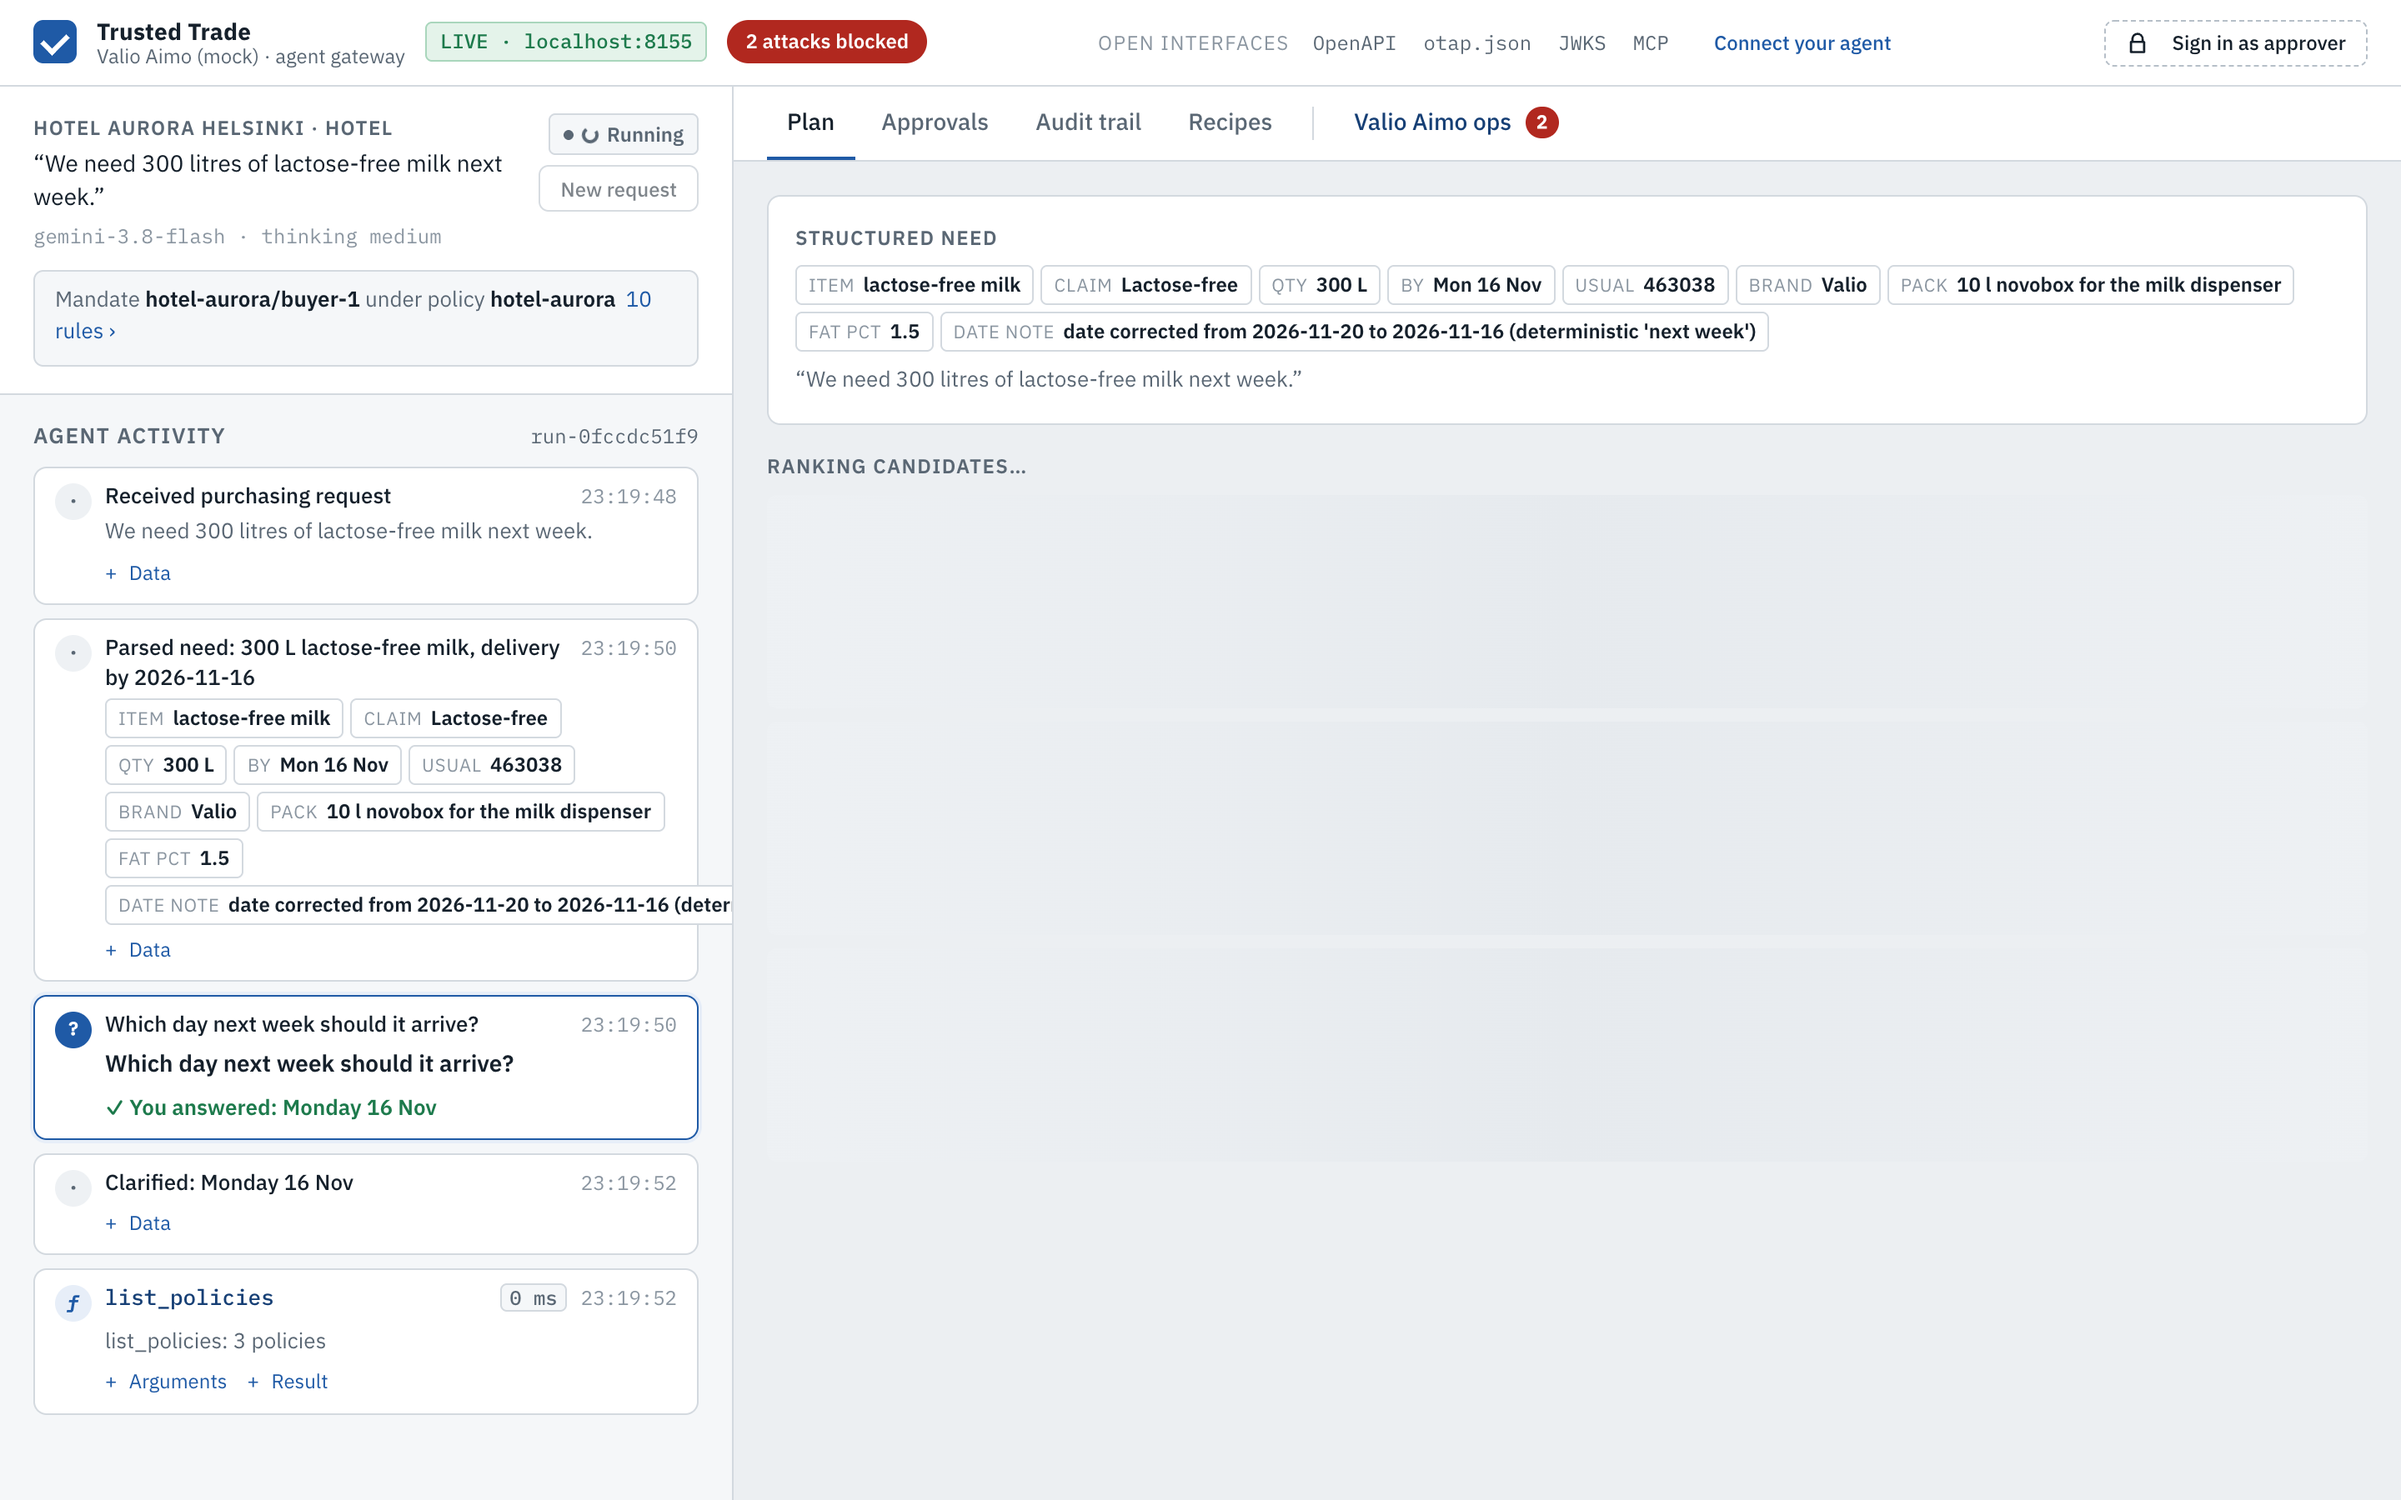
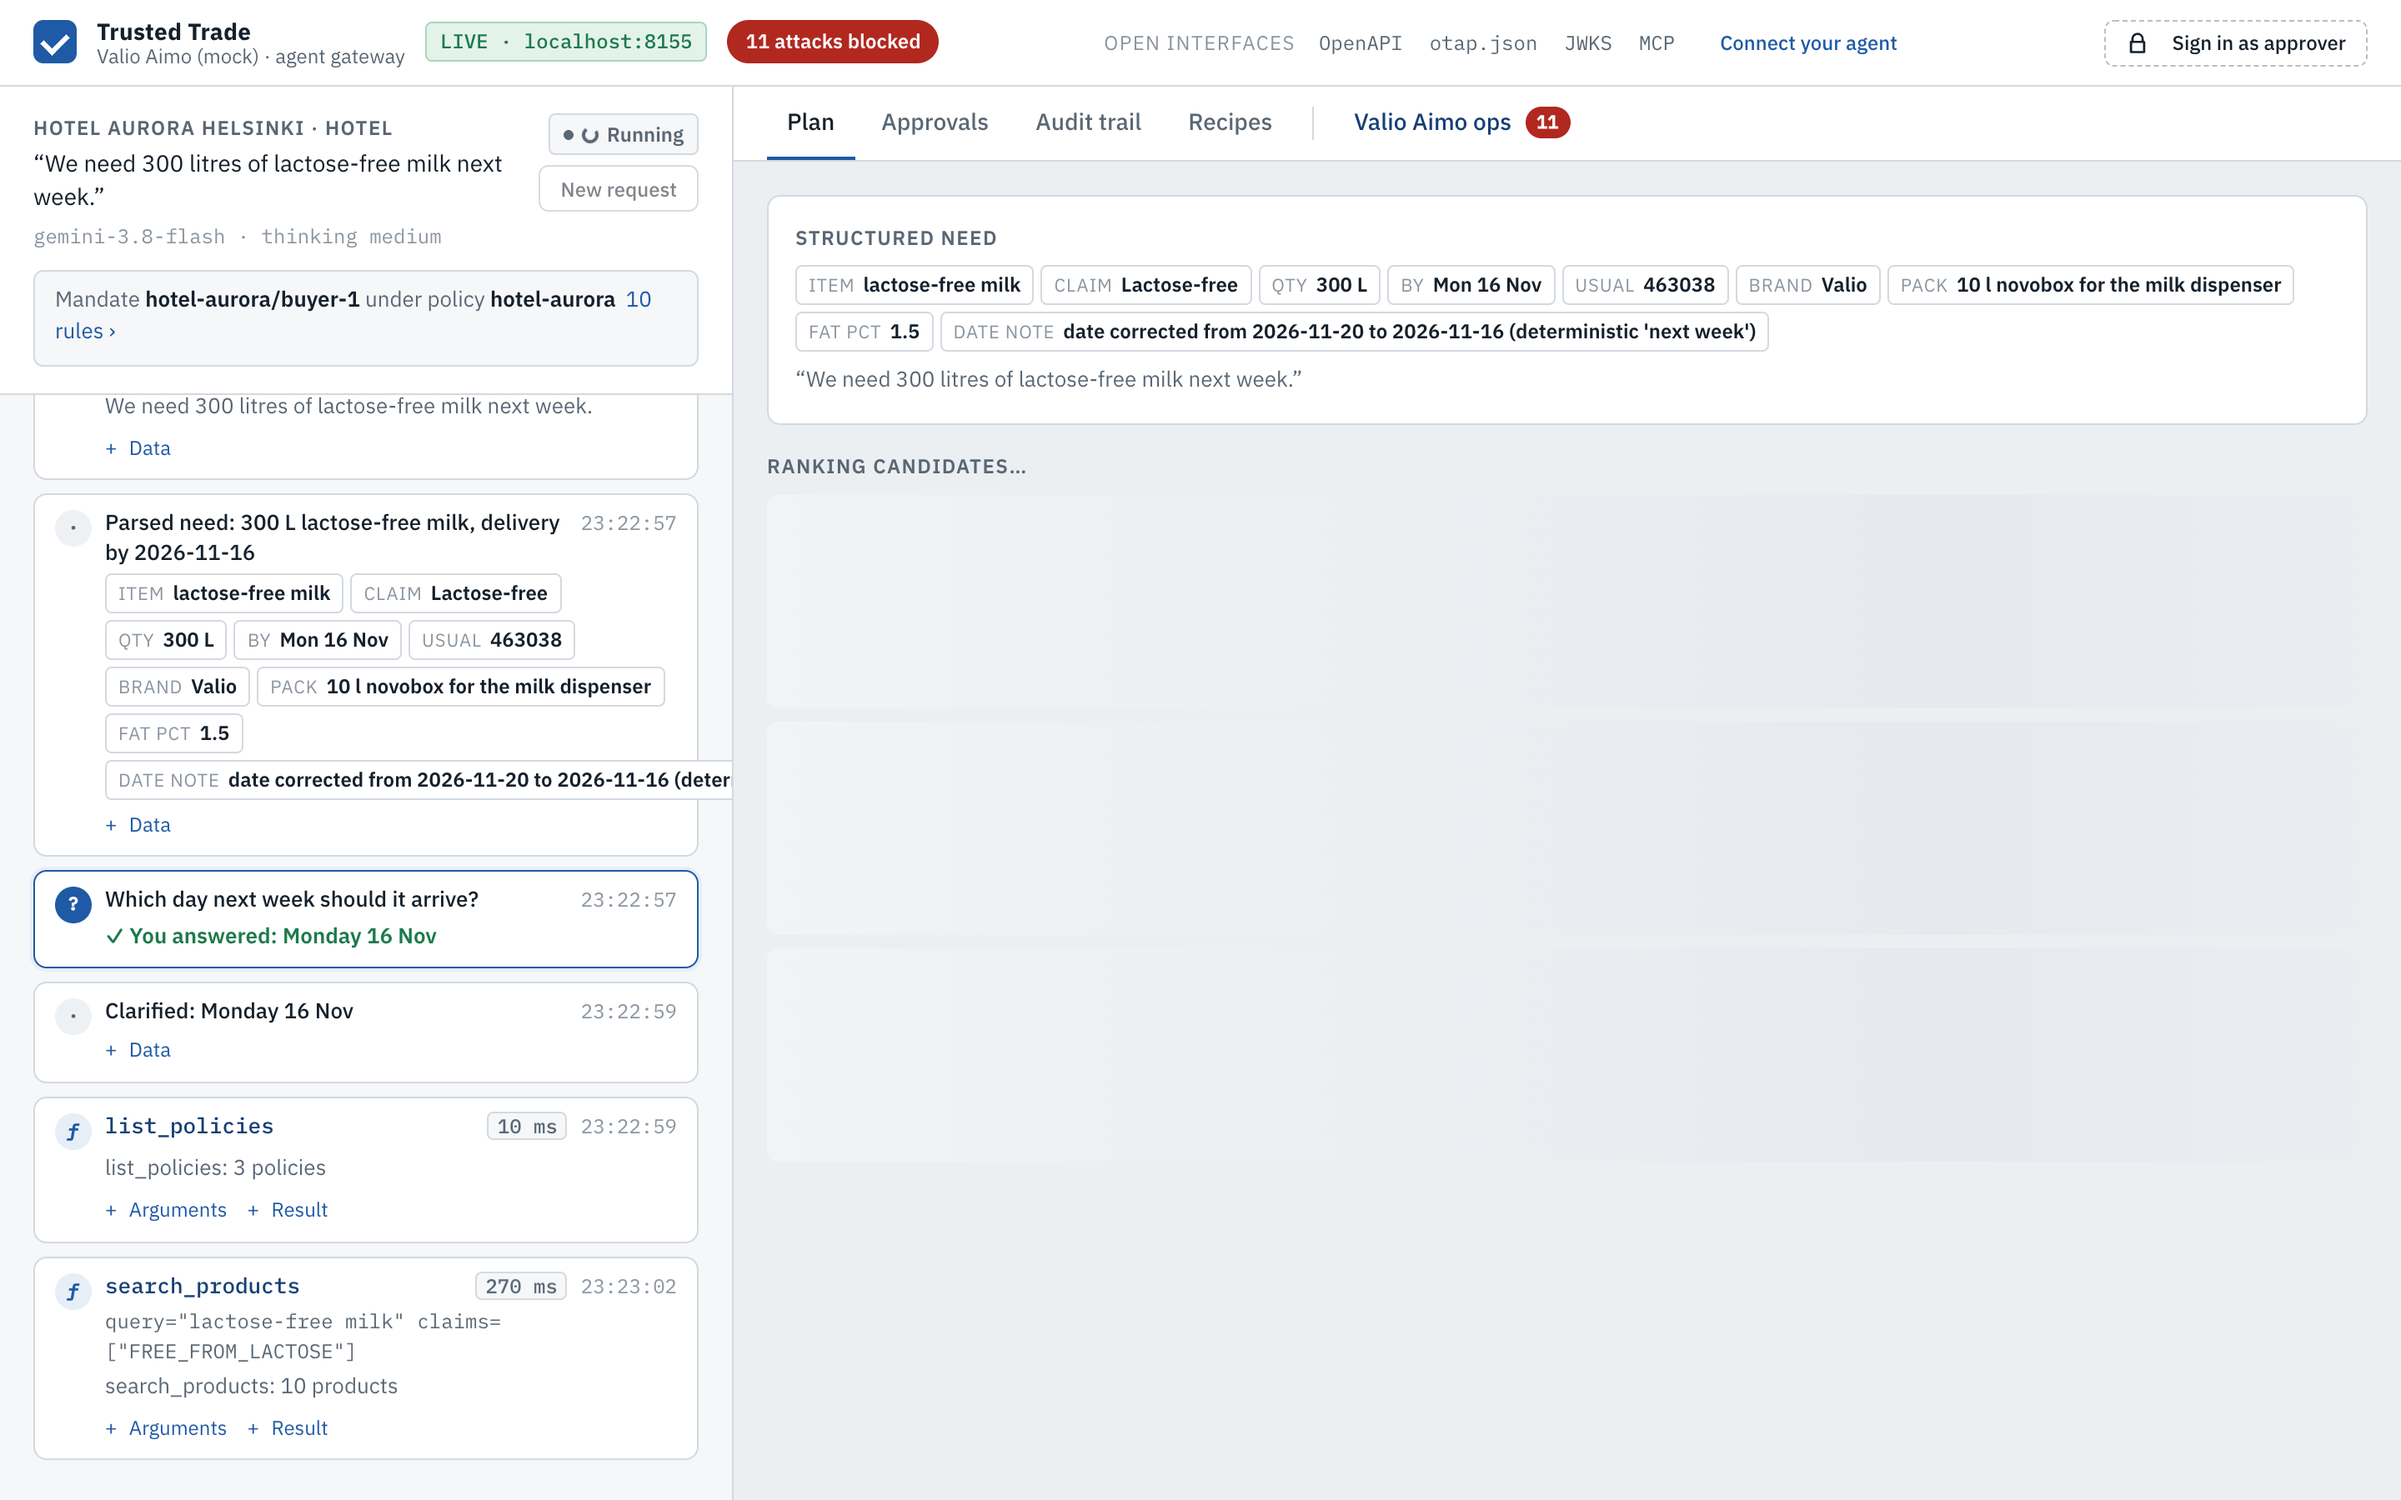
UI: re-quote reachable after the price lock expires; presenter top bar fits 1280; chip wrap; voice routes in interfaces.md; screenshots

diff --git a/web/app.js b/web/app.js
@@ -453,8 +453,8 @@ function voiceCard(o, q) {
       oninput: (e) => { V.typed = e.target.value; }, onkeydown: (e) => { if (e.key === "Enter" && inp.value.trim()) understand(o, inp.value.trim(), "typed"); } });
     body.push(V.note ? h("div", { class: "faint small" }, V.note) : null,
       h("div", { class: "row" }, inp, h("button", { type: "button", class: "btn btn-sm", onclick: () => inp.value.trim() && understand(o, inp.value.trim(), "typed") }, "Send"), again));
-    if (!V.focused) { V.focused = true; setTimeout(() => inp.focus(), 30); }
-    else if (document.activeElement?.id === "voice-typed") setTimeout(() => { const n = $("voice-typed"); if (n) { n.focus(); n.setSelectionRange(n.value.length, n.value.length); } }, 0);
+    if (!V.focused) { V.focused = true; setTimeout(() => inp.focus({ preventScroll: true }), 30); }
+    else if (document.activeElement?.id === "voice-typed") setTimeout(() => { const n = $("voice-typed"); if (n) { n.focus({ preventScroll: true }); n.setSelectionRange(n.value.length, n.value.length); } }, 0);
   }
   if (V.phase === "thinking") body.push(V.transcript ? h("div", { class: "voice-heard" }, "Heard: ", h("q", null, V.transcript)) : null,
     h("div", { class: "row" }, h("span", { class: "spinner" }), h("span", { class: "muted small" }, "Understanding the answer")));
@@ -1303,8 +1303,11 @@ function decisionForm(o, q) {
         h("span", { class: "binding-note" }, "Your decision is bound to quote hash ", h("span", { class: "mono" }, shortHash(q.quote_hash)), ". If the price or lines change, it no longer applies."),
         h("button", { class: "btn btn-voice", disabled: busy || expired || voiceBusy(), title: "Hear the order read out, answer approve or reject, then confirm on screen", onclick: () => startVoice(o, q) }, micIcon(), "Decide by voice"),
         h("button", { class: "btn btn-bad", disabled: busy, onclick: () => decide(o, q, "reject") }, "Reject"),
-        h("button", { class: "btn btn-ok btn-lg", disabled: busy || expired, title: expired ? "The price lock has expired: the agent must request a new quote" : "",
-          onclick: () => decide(o, q, "approve") }, busy ? [h("span", { class: "spinner" }), "Placing order"] : `Approve ${eur(q.total_net)}`))));
+        // An expired price lock is not a dead end: approving asks the gateway to re-price the same lines
+        // (409 requote_needed with a new signed quote), shown as an old-vs-new diff before anything is ordered.
+        h("button", { class: `btn btn-lg ${expired ? "btn-primary" : "btn-ok"}`, disabled: busy,
+          title: expired ? "The price lock has expired. The gateway re-prices the same lines; you review the difference before ordering." : "",
+          onclick: () => decide(o, q, "approve") }, busy ? [h("span", { class: "spinner" }), expired ? "Re-pricing" : "Placing order"] : expired ? "Price lock expired: re-price and review" : `Approve ${eur(q.total_net)}`))));
 }
 
 async function decide(o, q, decision, voiceNote) {
@@ -1335,7 +1338,7 @@ async function decide(o, q, decision, voiceNote) {
     if (e.code === "requote_needed" || fresh) {
       // Prices moved since the quote was signed: show old vs new and let the approver approve the fresh quote in one click.
       S.requote = { order_id: o.order_id, old: q, fresh: fresh || null, new_order_id: det.new_order?.order_id || det.new_order_id || det.order_id || o.order_id,
-        changes: det.changes || null, reason: e.body?.message || e.message };
+        changes: det.changes || null, why: det.reason || null, reason: e.body?.message || e.message };
       S.voice = null;
       if (!fresh && (det.new_quote_id || det.quote_id)) { try { S.requote.fresh = await api.getQuote(det.new_quote_id || det.quote_id); } catch { /* shown as missing */ } }
       renderApprovals();
@@ -1358,7 +1361,10 @@ function requoteCard(it) {
   const delta = fresh ? fresh.total_net - old.total_net : null;
   const diffCell = (a, b, fmt) => a === b || b == null ? h("span", null, a == null ? "–" : fmt(a)) : h("span", null, h("s", { class: "faint" }, a == null ? "–" : fmt(a)), " ", h("b", { class: b > a ? "up" : "down" }, fmt(b)));
   return h("div", { class: "card requote decide-sticky" },
-    h("div", { class: "card-head" }, h("h3", { class: "grow" }, "Prices changed: re-quote needed"),
+    h("div", { class: "card-head" }, h("h3", { class: "grow" },
+      R.why === "cutoff_passed" ? "Cut-off passed while waiting: re-planned"
+        : R.why === "line_unavailable" ? "A line became unavailable: re-planned"
+        : delta ? "Prices changed: re-quote needed" : R.why === "quote_expired" ? "Price lock expired: fresh quote, same price" : "Re-quote needed"),
       delta != null ? h("span", { class: `delta ${delta > 0 ? "up" : "down"}` }, `${delta > 0 ? "+" : ""}${eur(delta)} (${num((delta / old.total_net) * 100, 1)}%)`) : null),
     h("div", { class: "card-body sm muted" }, R.reason, " Your approval was bound to the old quote hash, so it did not apply. Nothing was ordered."),
     h("table", { class: "t" },

diff --git a/web/styles.css b/web/styles.css
@@ -218,7 +218,8 @@ pre.code {
   border-radius: var(--r-sm); padding: 2px 7px; font-size: var(--fs-xs); white-space: nowrap;
 }
 .chip i { font-style: normal; color: var(--faint); text-transform: uppercase; letter-spacing: .04em; font-size: 11px; }
-.chip b { font-weight: 600; }
+.chip b { font-weight: 600; min-width: 0; overflow-wrap: anywhere; white-space: normal; }
+.chip { max-width: 100%; }
 
 .empty {
   border: 1px dashed var(--border-strong); border-radius: var(--r-lg); padding: var(--s6) var(--s5);
@@ -533,8 +534,16 @@ tr.short td { background: var(--warn-tint); }
 .signin-card .card-body { display: flex; flex-direction: column; gap: var(--s3); align-items: flex-start; }
 .signin-card h3 { margin: 0; }
 .signin-card p { margin: 0; max-width: 62ch; }
-.signed-as { display: flex; align-items: center; gap: var(--s2); min-height: 34px; }
+.signed-as { display: flex; align-items: center; gap: var(--s2); min-height: 34px; white-space: nowrap; flex-wrap: wrap; }
 .inline-warn { color: var(--warn); background: var(--warn-tint); border: 1px solid var(--warn-line); border-radius: var(--r-md); padding: 6px 10px; }
+
+.mode-pill, .blocked-pill, .open-strip a, .approver-chip, .brand-text strong { white-space: nowrap; }
+.open-strip { margin-left: var(--s3); }
+@media (max-width: 1480px) {
+  .open-label, .brand-text span { display: none; }
+  .approver-chip.on .role { display: none; }
+  .open-strip { gap: var(--s3); }
+}
 
 /* ------------------------------------------------------------- voice approval (S5) */
 .btn-voice { border-color: var(--accent); color: var(--accent-ink); }

diff --git a/docs/interfaces.md b/docs/interfaces.md
@@ -179,3 +179,16 @@ Audit actions: `drift.checked`, `proposal.created`, `proposal.accepted`, `propos
   `GET /v1/customers/{id}/learned` -> `{customer_id, available, swaps}` from `learned.list_learned(customer_id)` (or `learned_for`/`get_learned`); 403 for another customer's header. MCP `list_policies` returns `learned_swaps` for the caller's customer. `Quote.provenance.line_verification[pid].reference` = the usual product id the tier was judged against.
 - **Re-quote:** approving an order whose quote expired, or whose line passed its cut-off / became undeliverable while waiting, returns **409 `requote_needed`** with `detail {reason: quote_expired|cutoff_passed|line_unavailable, old_order_id, new_quote, new_order (pending_approval, provenance.supersedes), changes {old/new totals and lines}, approve_with {method, path, body}}`. The proposal re-prices the same lines (or re-plans from `quote.need` if they cannot be delivered); if neither works, `detail` has no `new_order`. The old order becomes `expired` (`provenance.requoted_as`); audit `order.requoted`. Approving the old order again returns the same proposal. The agent path (`POST /v1/orders` on an expired quote) still returns 409 `quote_expired`.
 - **Idempotency:** concurrent duplicate `POST /v1/orders` for one quote are serialised (one order). A repeated identical approval (same decision, approver, quote_hash) returns the same order with 200 instead of 409.
+
+## Voice approval (S5, Sat night): `aimo/voice/`, mounted by a guarded hook in `aimo/gateway/app.py`
+Voice never decides. It reads the order out, transcribes the answer and suggests an intent; the human confirms with one
+click on `POST /v1/approvals/{order_id}/decision` (same `X-Approver-Session`, the quote hash).
+| Method | Path | Body | Returns |
+|---|---|---|---|
+| GET | `/v1/voice/status` | | `{elevenlabs, tts: elevenlabs\|browser, stt: elevenlabs\|browser, intent: gemini\|rules, decides: false}` |
+| POST | `/v1/voice/prompt` | `{order_id, audio?: bool}` | `{order_id, status, quote_hash, text, approver, tts, audio_b64?, mime?, tts_error?}` |
+| POST | `/v1/voice/transcribe` | multipart `audio` (+`language?`) | `{transcript, language, engine, model, approver}`; 503 `voice_unavailable` without `ELEVENLABS_API_KEY` |
+| POST | `/v1/voice/intent` | `{transcript, order_id?}` | `{intent: approve\|reject\|unclear, confidence, source: gemini\|rules, note?, transcript, decides: false, confirm_with}` |
+All except status need `X-Approver-Session` (401 `approver_session_required`); any `X-Agent-Id` gets 403 `agent_cannot_approve`.
+Env: `ELEVENLABS_API_KEY`, optional `ELEVENLABS_VOICE_ID`, `ELEVENLABS_TTS_MODEL` (eleven_flash_v2_5), `ELEVENLABS_STT_MODEL` (scribe_v1).
+Gemini ledger feature: `voice.intent`. A negated or mixed answer is never returned as `approve`.

diff --git a/docs/reports/ui.md b/docs/reports/ui.md
@@ -39,6 +39,17 @@ The stopped frontend worktree (`agent-a382899e20328ded2`, uncommitted) was 3-way
   `Voice (<engine>): “<transcript>”`.
 - Inbox auto-refresh pauses while a voice decision is open.
 
+### Re-quote is reachable from the UI
+The old decision form disabled Approve once the 15-minute price lock expired, so the gateway's 409 `requote_needed`
+could never be reached. Now an expired order shows **"Price lock expired: re-price and review"**; clicking it gets the
+new signed quote + new pending order and shows the old-vs-new diff (heading follows `detail.reason`), then
+**Approve new quote** approves the new order with its own hash. Verified live on ORD-20261114-35cf6376 →
+ORD-20261114-f30ca431 (old order `expired`, `provenance.requoted_as`).
+
+### Presenter mode
+Checked at 1280×800 `&present=1`: top bar no longer wraps (interface label + brand subtitle hide below 1480 px),
+voice card and decision bar fit, voice card survives the inbox refresh.
+
 ### Evidence
 - `uv run --extra dev pytest -q tests/test_voice.py` → 18 passed (intent table incl. negations, Gemini overruled by
   negation, routes need a session and refuse agents, voice changes nothing until the decision call, ElevenLabs TTS/STT
@@ -56,4 +67,4 @@ The stopped frontend worktree (`agent-a382899e20328ded2`, uncommitted) was 3-way
 ## Requests
 - S4 (docs): DEMO.md beat "a human signs in, agents never can" now uses the header chip "Sign in as approver";
   voice beat: Approvals → "Decide by voice" → say "approve" → Confirm.
-- Contracts: no change to `aimo/models.py`. New routes `/v1/voice/*` (append to docs/interfaces.md if S4 wants them listed).
+- Contracts: no change to `aimo/models.py`. Appended a "Voice approval" section to `docs/interfaces.md` (`/v1/voice/*`).
